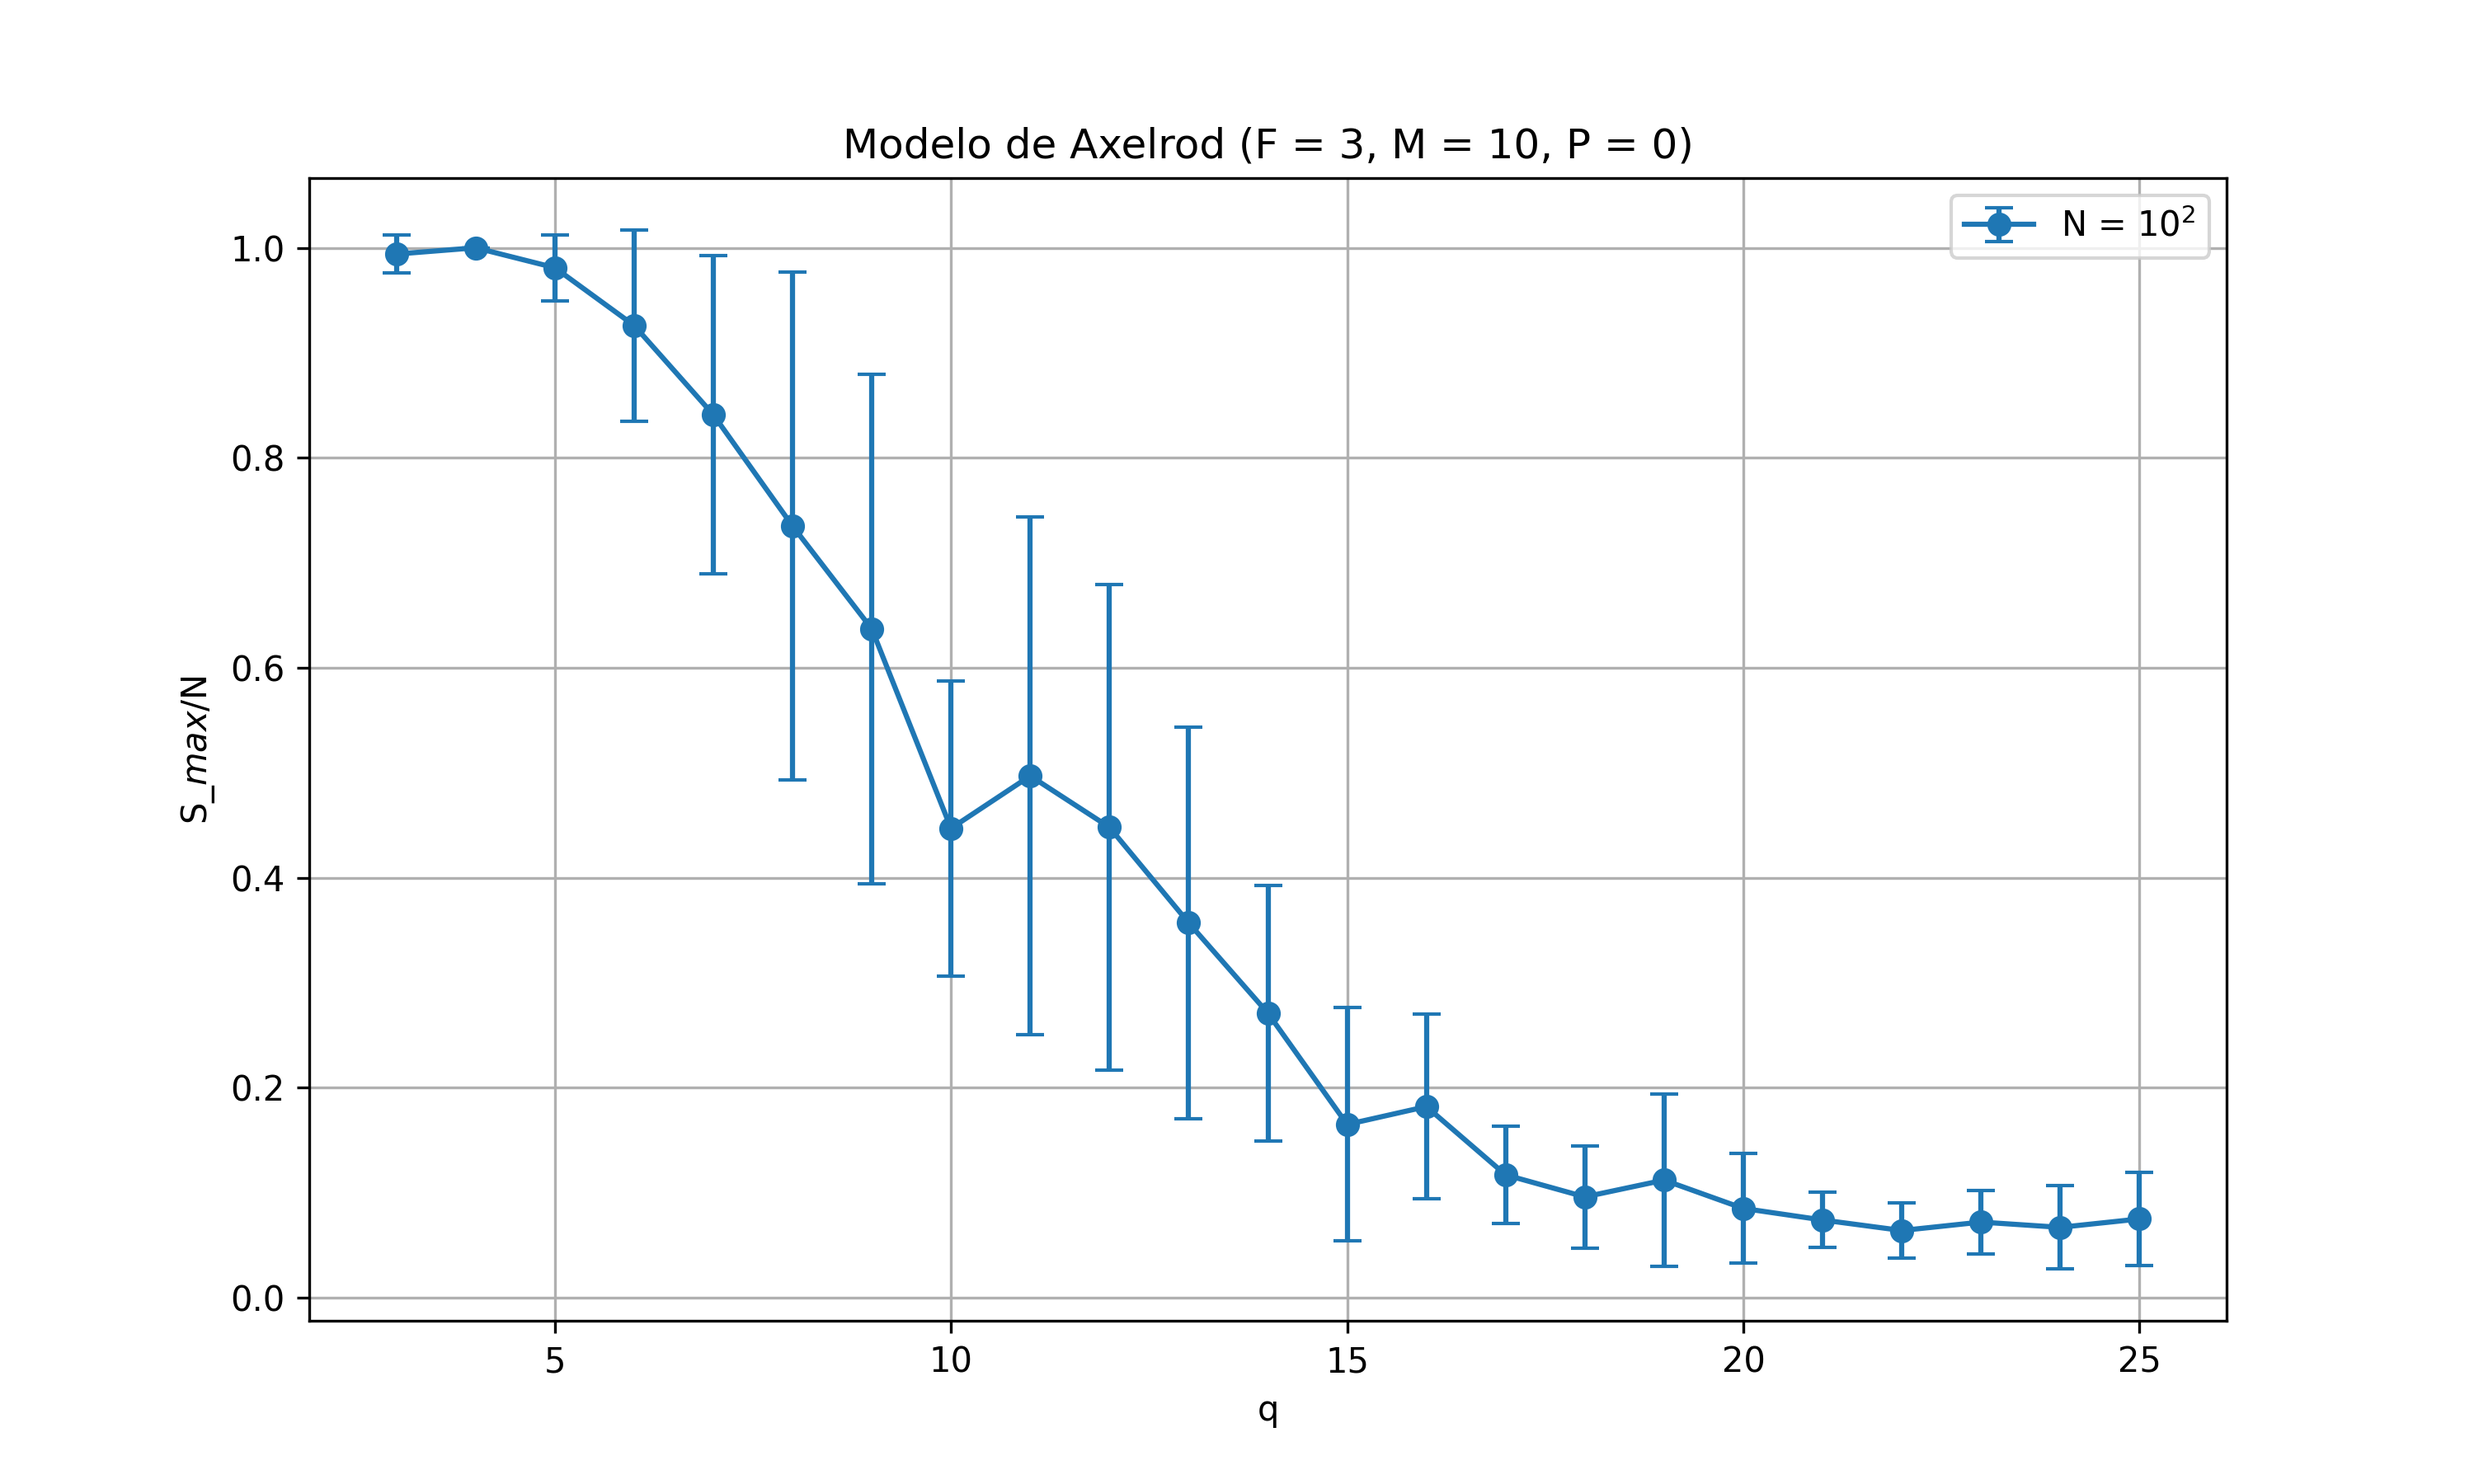
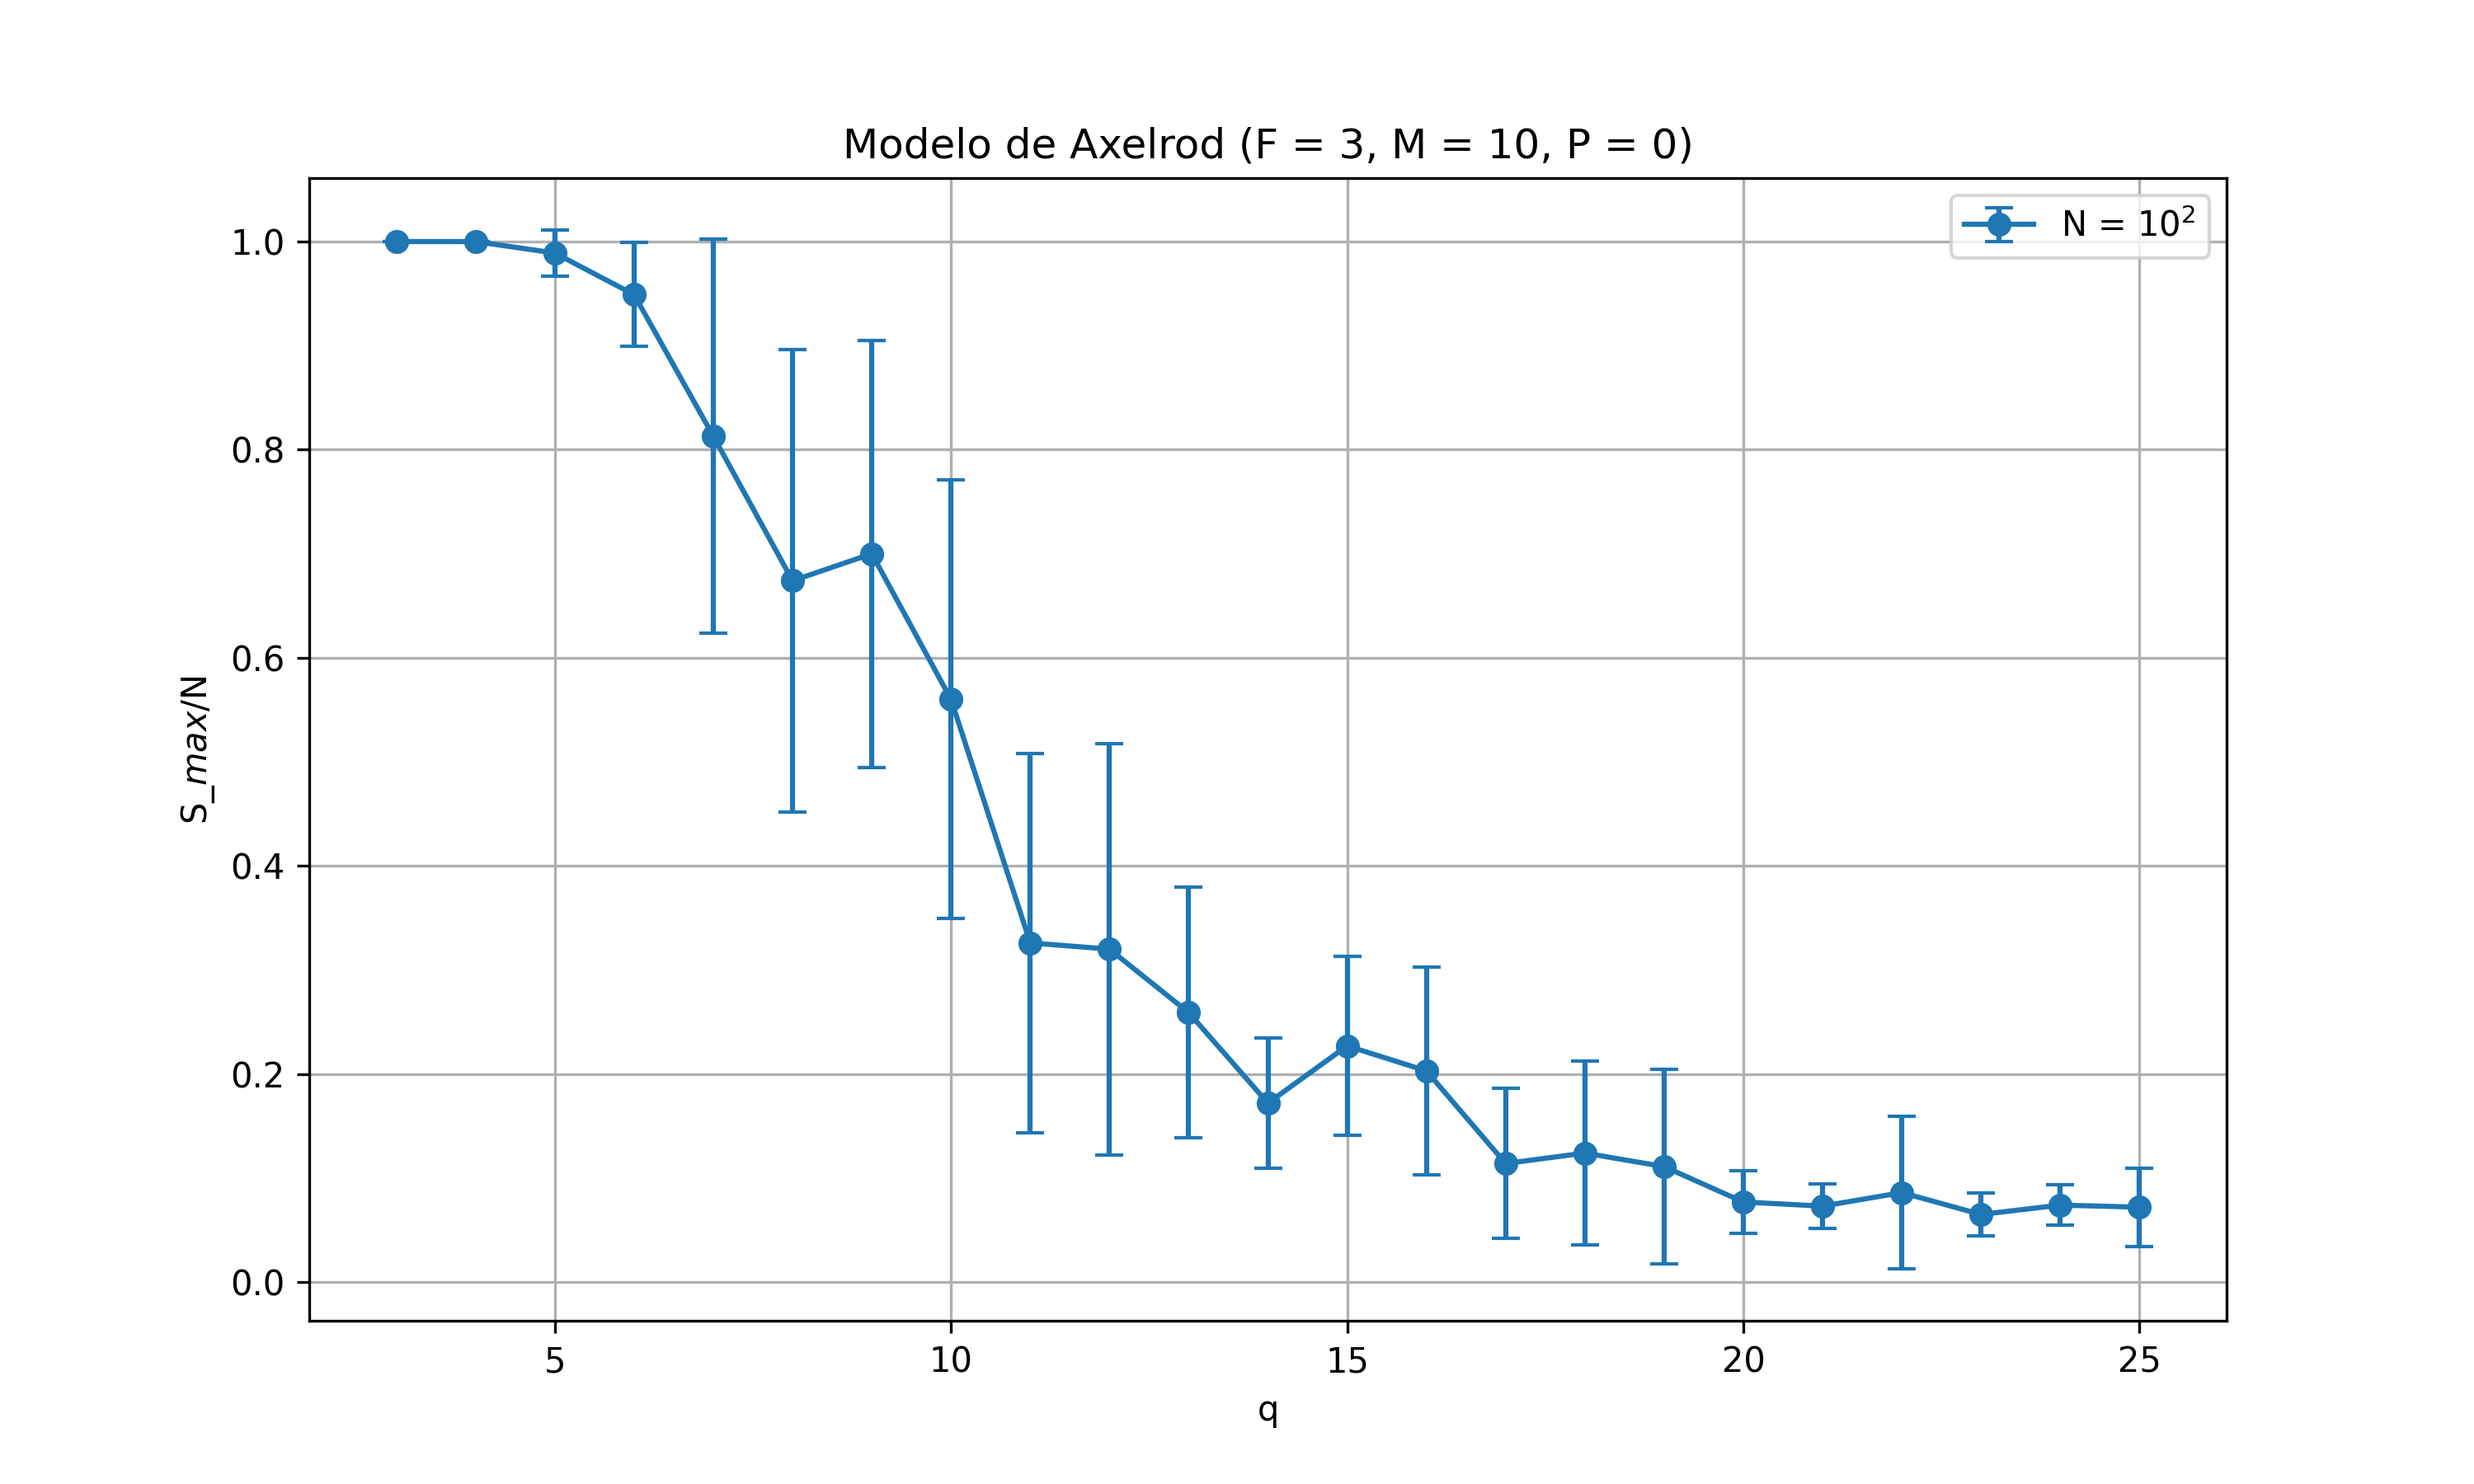
Se incluye la animación, el numero de liks activos y la desviacion estandar de S_max frente a q

diff --git a/graficas.py b/graficas.py
@@ -1,5 +1,6 @@
 import numpy as np
 import matplotlib.pyplot as plt
+import matplotlib.animation as animation
 
 def graf_Smax_vs_q(q_values, par_orden_medio, par_orden_std, f, M, L,p,h):
     carpeta = "Smax_vs_q_graficas/"
@@ -18,3 +19,119 @@ def graf_Smax_vs_q(q_values, par_orden_medio, par_orden_std, f, M, L,p,h):
     else:
         plt.savefig(carpeta + f"Axelrod_F{f}_M{M}_L{L}_P{p}.png", dpi=300)
     plt.show()
+
+"""def graf_Smax_std_vs_q(q_values, par_orden_std, f, M, L,p,h):
+    carpeta = "Smax_std_vs_q_graficas/"
+    plt.figure(figsize=(10, 6))
+    plt.plot(q_values, par_orden_std , 'o-', label=f'N = {L}$^2$')
+    plt.xlabel("q")
+    plt.ylabel("$\\frac{\sigma(S_{max})}{N}$")
+    if p>0:
+        plt.title(f"Modelo de Axelrod (F = {f}, M = {M}, P = {p}, h = {h})")
+    else:
+        plt.title(f"Modelo de Axelrod (F = {f}, M = {M}, P = {p})")
+    plt.grid(True)
+    plt.legend()
+    if p>0:
+        plt.savefig(carpeta + f"std_Axelrod_F{f}_M{M}_L{L}_P{p}_h{h}.png", dpi=300)
+    else:
+        plt.savefig(carpeta + f"std_Axelrod_F{f}_M{M}_L{L}_P{p}.png", dpi=300)
+"""
+def links_activos_vs_tiempo(link_list):
+    tiempos = list(range(len(link_list)))
+    plt.figure(figsize=(8, 5))
+    plt.plot(tiempos, link_list, marker='o', linestyle='-', color='blue')
+    plt.xlabel('Tiempo')
+    plt.ylabel('Número de links activos')
+    plt.title('Evolución de los links activos en el tiempo')
+    plt.grid(True)
+    plt.tight_layout()
+    plt.savefig("links_activos_vs_tiempo.png", dpi=300)
+    plt.show()
+    
+
+def animar_matriz_vectores(matrices, q):
+    intervalo = 20
+    max_val = q - 1  # Valor máximo posible para cada canal
+    matrices_rgb = []
+    for mat in matrices:
+        mat_norm = mat.astype(float) / max_val
+        mat_norm = np.clip(mat_norm, 0, 1)  # Asegura que los valores estén en [0,1]
+        matrices_rgb.append(mat_norm)
+    
+    fig, ax = plt.subplots()
+    im = ax.imshow(matrices_rgb[0], interpolation='nearest')
+    ax.axis('off')
+
+    def actualizar(frame):
+        im.set_array(matrices_rgb[frame])
+        return [im]
+
+    ani = animation.FuncAnimation(
+        fig, actualizar, frames=len(matrices_rgb), interval=intervalo, blit=True, repeat=False
+    )
+    ani.save('animacion.gif', writer='pillow')
+    plt.show()
+    return ani  # Mantén la referencia
+
+# filepath: vsls:/graficas.py
+'''
+def animar_matriz_vectores(matrices):
+
+    #matrices: lista de matrices 3D (shape: filas x columnas x f), donde f=3 (R,G,B)
+    #intervalo: tiempo entre frames en ms
+    intervalo=200
+    # Normaliza los valores a [0,1] para RGB
+    matrices_rgb = []
+    for mat in matrices:
+        # Normaliza cada canal por separado si quieres, o todo junto
+        mat_norm = mat.astype(float)
+        for c in range(mat.shape[2]):
+            max_val = np.max(mat[:,:,c])
+            if max_val > 0:
+                mat_norm[:,:,c] /= max_val
+        matrices_rgb.append(mat_norm)
+    
+    fig, ax = plt.subplots()
+    im = ax.imshow(matrices_rgb[0], interpolation='nearest')
+    ax.axis('off')
+
+    def actualizar(frame):
+        im.set_array(matrices_rgb[frame])
+        return [im]
+
+    ani = animation.FuncAnimation(
+        fig, actualizar, frames=len(matrices_rgb), interval=intervalo, blit=True, repeat=False
+    )
+
+    ani.save('animacion.gif', writer='pillow')
+    plt.show()  
+
+    def animar_matriz_vectores(matrices,):
+    intervalo = 200
+    matrices_rgb = []
+    for mat in matrices:
+        mat_norm = mat.astype(float)
+        for c in range(mat.shape[2]):
+            max_val = np.max(mat[:,:,c])
+            if max_val > 0:
+                mat_norm[:,:,c] /= max_val
+        matrices_rgb.append(mat_norm)
+    
+    fig, ax = plt.subplots()
+    im = ax.imshow(matrices_rgb[0], interpolation='nearest')
+    ax.axis('off')
+
+    def actualizar(frame):
+        im.set_array(matrices_rgb[frame])
+        return [im]
+
+    ani = animation.FuncAnimation(
+        fig, actualizar, frames=len(matrices_rgb), interval=intervalo, blit=True, repeat=False
+    )
+    # Guarda el gif ANTES de mostrar
+    ani.save('animacion.gif', writer='pillow')
+    plt.show()
+    return ani  # Mantén la referencia
+
+    '''

diff --git a/Axelrod.py b/Axelrod.py
@@ -1,8 +1,8 @@
 import numpy as np
 import matplotlib.pyplot as plt
 import random
-from func_aux import square_lattice, obtener_vecinos, MatrizInicial, FinInteraccion, similarity, misma_cultura, tamaño_mayor_cluster
-from graficas import graf_Smax_vs_q
+from func_aux import square_lattice, obtener_vecinos, MatrizInicial, FinInteraccion, similarity, misma_cultura, tamaño_mayor_cluster, transformarmatriz
+from graficas import graf_Smax_vs_q, links_activos_vs_tiempo, animar_matriz_vectores
 #L=  Lado de la red cuadrada
 L=10
 #N=Número de agentes
@@ -15,14 +15,23 @@ p=0  #p=número de medios de comunicacion (prensa)
 h=1.0     #probabilidad de interaccion con la prensa
 sim_min=1/f #similitud mínima normalizada para que dos agentes se consideren similares
 
+qespecial=10 #q para el que se quiere guardar la matriz de agentes
+matriz_paso=np.zeros((L,L,f),dtype=int) #matriz de agentes para q=10
+matrizanimacion_list=[] #Lista en la que guardaremos las matrices de agentes para q=10
+
 #Creamos la matriz de adyacencia y la lista de vecinos
 adj_matrix = square_lattice(L)
 vecinos_list=obtener_vecinos(adj_matrix, N, p)
 
 resultados = []      #cada elemento de la lista (dim q) es una sublista (dimension M, numero de simulaciones) con el valor del par. orden para cada q
-M=10
+M=1
 #Número de simulaciones del modelo de Axelrod para cada q, para promediar el tamaño del mayor cluster
 
+#links activos
+linksactivos=0
+link_list=[]
+#Abrimos fichero para guardar numero de links activos frente a tiempo
+#with open("resultados_tiempo_links.csv", "w") as file:
 
 for q in q_values:
     par_orden_q=[] #Lista en la que guardaremos el tamaño del mayor cluster para cada q en cada simulación m
@@ -33,6 +42,7 @@ for q in q_values:
 
         #Bucle en el que realizamos el modelo de Axelrod
         haterminado=False
+        tiempo=0
         while not haterminado:
             matrizaux=np.copy(agentes)
             for i in range(N):
@@ -51,8 +61,27 @@ for q in q_values:
                         diferentes = [k for k in range(f) if matrizaux[i][k] != matrizaux[j][k]] #Vemos que rasgos son diferentes
                         k = random.choice(diferentes) #Elegimos uno al azar y lo copiamos
                         agentes[i][k] = matrizaux[j][k]
+
+            
+
+            if q == qespecial and m == M-1:
+                matriz_paso = np.zeros((L, L, f), dtype=int)
+                transformarmatriz(agentes, L, f, matriz_paso)
+                matrizanimacion_list.append(matriz_paso)    
+
             #comprobamos si ya no se pueden realizar más interacciones
-            haterminado=FinInteraccion(agentes,vecinos_list,N,f,p,sim_min)
+            haterminado, linksactivos=FinInteraccion(agentes,vecinos_list,N,f,p,sim_min)
+            tiempo+=1
+            link_list.append(linksactivos)
+
+            '''
+            if q==qespecial and m==M-1:
+                transformarmatriz(agentes, L, f, matriznueva)
+                matrizanimacion_list.append(matriznueva)    
+                '''
+            
+            
+            
 
         #Calculamos el tamaño del mayor cluster
         mayor_cluster = tamaño_mayor_cluster(agentes, vecinos_list, N)
@@ -66,7 +95,16 @@ par_orden_std=[np.std(res) for res in resultados]
 
 #Graficamos
 graf_Smax_vs_q(q_values, par_orden_medio, par_orden_std, f, M, L, p, h)
+#graf_Smax_std_vs_q(q_values, par_orden_std, f, M, L,p,h)
+links_activos_vs_tiempo(link_list)
+animar_matriz_vectores(matrizanimacion_list,qespecial)
 
 
-    
+   #Falta:
+   # numero de links activos 
+   # animacion  
+   # desviación estandar de Smax frente a q
+   # finalizar cuando links activos = cte
+   
+   #######  variable continua 
 

diff --git a/func_aux.py b/func_aux.py
@@ -54,14 +54,20 @@ def similarity(i, j, agentes,f):
 #Comprueba si ha finalizado la interacción
 #@njit
 def FinInteraccion(agentes, vecinos_list, N,f, prensas, sim_min):
-    for i in range(N):
+    linksactivos = 0
+    for i in range(N+prensas):
         for j in vecinos_list[i]:
             if j<N:
                 sim= similarity(i, j, agentes, f)
                 if sim<1 and sim>=sim_min:
-                    return False #Si encuentra al menos una interacción posible, devuelve False
-    # Si no queda interacción posible, devuelve True                    
-    return True      
+                    linksactivos = linksactivos + 1
+    if linksactivos == 0:   
+        # Si no queda interacción posible, devuelve True                    
+        return True, linksactivos 
+    else:           
+        #Si encuentra al menos una interacción posible, devuelve False
+        return False, linksactivos
+          
 
 #Comprueba si dos agentes tienen exactamente la misma cultura. Devuelve True si son iguales y False si son diferentes
 #@njit
@@ -95,3 +101,20 @@ def tamaño_mayor_cluster(agentes, vecinos_list, N):
                 mayor_cluster = cluster_size
 
     return mayor_cluster / N 
+
+
+def transformarmatriz(agentes, L, f, matriznueva):
+    """
+    Transforma la matriz de agentes en una matriz de tamaño L x L x f.
+    """
+    for i in range(L):
+        for j in range(L):
+            for k in range(f):
+                # Asignamos el valor de la matriz original a la nueva matriz
+                # La nueva matriz tiene dimensiones L x L x f
+                # La matriz original es de tamaño (N+prensas) x f
+                # Por lo tanto, necesitamos calcular el índice correspondiente en la matriz original
+                # El índice en la matriz original es i * L + j
+                # y el índice en la nueva matriz es i, j, k
+                matriznueva[i][j][k] = agentes[i*L+j][k]
+    return matriznueva
